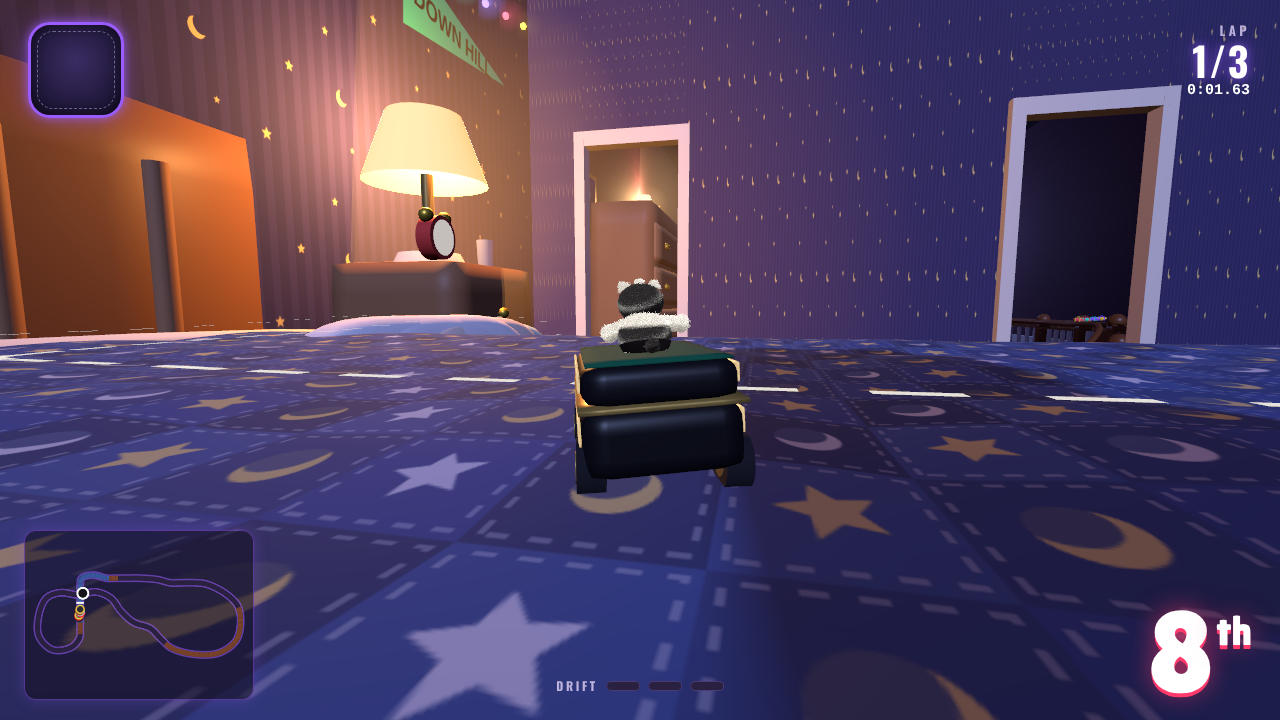
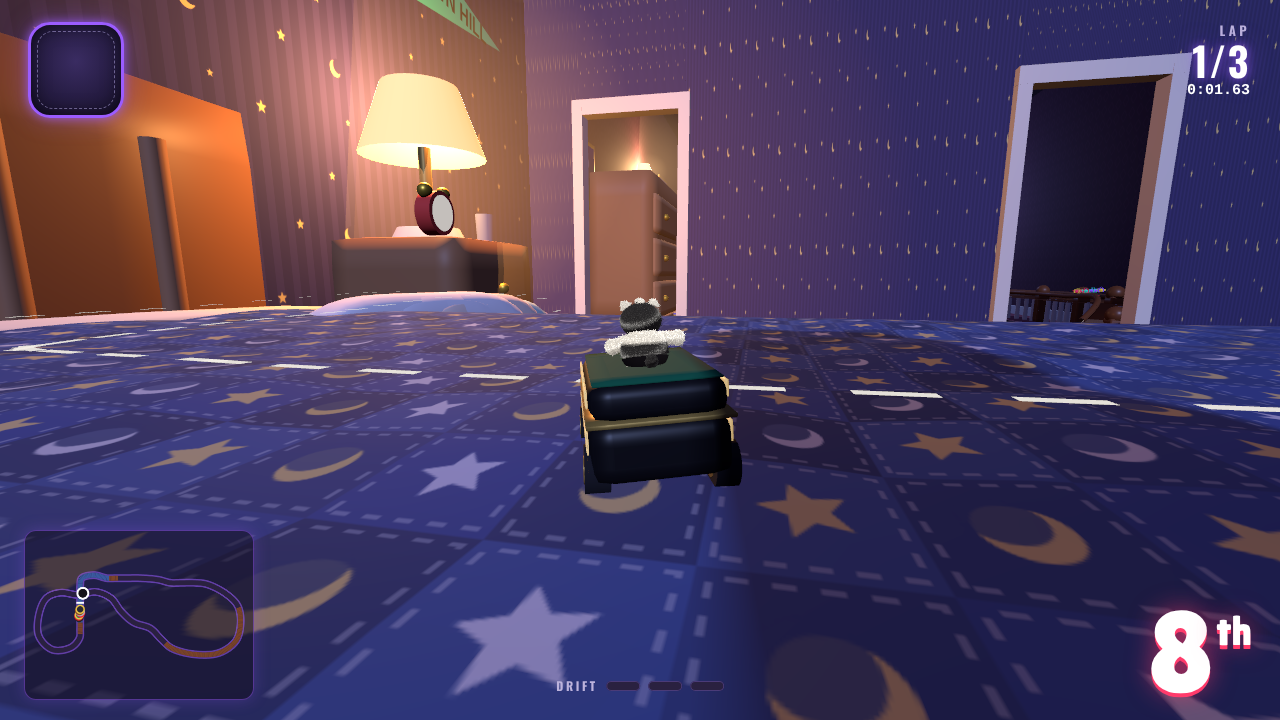
Down Hill: perf — no soft bodies in races (rig-level taunt/trick poses), static mesh merging, tighter LOD; lap ~55 s; check reports per-frame draw stats

diff --git a/down-hill/_source/src/render/racer.js b/down-hill/_source/src/render/racer.js
@@ -63,13 +63,17 @@ export class Driver {
     U.fill.value.copy(FILL).applyQuaternion(camQ);
   }
 
-  update(dt, near) {
+  /* `half`: the soft body steps every other frame (30 Hz, twice the dt) */
+  update(dt, near, half = false) {
     if (this.awake <= 0) return false;
     this.awake -= dt;
     if (this.actT > 0) { this.actT -= dt; if (this.actT <= 0) { this.F.act = 'idle'; this.F.t = 0; } }
     this.F.t++;
     if (!near) return false;
-    this.p.update(Math.min(dt, 1 / 30), this.F, this.F, [0, 0, 0], [0, 0, 3], false);
+    this._acc = (this._acc || 0) + dt;
+    if (half && (this._flip = !this._flip)) return false;
+    this.p.update(Math.min(this._acc, 1 / 20), this.F, this.F, [0, 0, 0], [0, 0, 3], false);
+    this._acc = 0;
     return true;
   }
 
@@ -103,7 +107,10 @@ export class RacerView {
 
   hit() { this.squashV -= 6; this.driver.pose('hitstun', 0.5); }
   land(h) { this.squashV -= 3 + h * 6; }
-  taunt(air) { this.driver.pose(air ? 'jump' : 'win', air ? 0.75 : 1.4); if (this.kart.parts.hydraulics && !air) this.hyd = 1.1; if (air) this.trickT = 0.75; }
+  /* the showy pose: the plush stands up in its seat and spins once round
+     (a rig-level pose every racer gets; the player's own also wakes its
+     soft body for the arms-up taunt) */
+  taunt(air) { this.driver.pose(air ? 'jump' : 'win', air ? 0.75 : 1.4); if (this.kart.parts.hydraulics && !air) this.hyd = 1.1; if (air) this.trickT = 0.75; this.showT = air ? 0.75 : 1.2; this.showLen = this.showT; }
 
   /* place it from the sim's kart K (interpolated pose passed in) */
   update(dt, K, pose, camPos, camQ) {
@@ -142,6 +149,13 @@ export class RacerView {
     d.rotation.z = -(K.steer || 0) * 0.16 * Math.min(1, Math.abs(K.fwd) / 12) + (K.caseT > 0 || K.wobT > 0 ? Math.sin(this.t * 14) * 0.18 : 0);
     d.rotation.x = Math.max(-0.15, Math.min(0.2, (K.boostT > 0 ? -0.12 : 0) + this.pitch * 0.4));
     d.rotation.y = (K.steer || 0) * 0.25 + (K.spinT > 0 ? Math.sin(this.t * 20) * 0.3 : 0);
+    if (this.showT > 0) {
+      this.showT -= dt;
+      const u = 1 - Math.max(0, this.showT) / this.showLen, up = Math.sin(Math.min(1, u * 1.3) * Math.PI);
+      d.position.y += up * 0.55;
+      d.rotation.y += (u < 0.75 ? u / 0.75 : 1) * Math.PI * 2;
+      d.scale.setScalar(P.scale * (1 + up * 0.12));
+    } else d.scale.setScalar(P.scale);
 
     // wheels: roll with the speed; the front ones steer
     this.wheelA += (K.fwd * dt) / 0.45;
@@ -156,9 +170,10 @@ export class RacerView {
 
     // LOD by distance to the camera
     const dist = camPos.distanceTo(g.position);
-    this.setLod(dist > 38 ? 1 : 0);
+    this.dist = dist;
+    this.setLod(dist > 26 ? 1 : 0);
     this.driver.light(camQ);
-    this.driver.update(dt, dist < 45);
+    this.driver.update(dt, dist < 45 && this.mayWake !== false, !!this.racing);
     g.visible = dist < 260;
   }
 

diff --git a/down-hill/_source/src/render/geo.js b/down-hill/_source/src/render/geo.js
@@ -73,3 +73,53 @@ export function srand(seed = 1) {
   let s = seed >>> 0;
   return () => { s = (s + 0x6d2b79f5) >>> 0; let t = Math.imul(s ^ (s >>> 15), s | 1); t ^= t + Math.imul(t ^ (t >>> 7), t | 61); return ((t ^ (t >>> 14)) >>> 0) / 4294967296; };
 }
+
+/* merge the static meshes under `root` that share a material into one mesh
+   each (their world transforms baked in): hundreds of primitives → a few
+   dozen draws. Skips sprites, instanced meshes, anything flagged
+   userData.keep, and geometry whose attributes don't match the first. */
+export function mergeStatic(root, { keep = () => false } = {}) {
+  root.updateMatrixWorld(true);
+  const inv = new THREE.Matrix4().copy(root.matrixWorld).invert();
+  const groups = new Map();
+  root.traverse((o) => {
+    if (!o.isMesh || o.isInstancedMesh || o.isSprite || o.userData.keep || keep(o) || Array.isArray(o.material)) return;
+    let p = o.parent, ok = true;
+    while (p && p !== root) { if (p.userData.keep) ok = false; p = p.parent; }
+    if (!ok) return;
+    const key = o.material.uuid + '|' + (o.userData.cast ? 1 : 0) + (o.userData.noShadow ? 1 : 0);
+    if (!groups.has(key)) groups.set(key, []);
+    groups.get(key).push(o);
+  });
+  let merged = 0;
+  for (const list of groups.values()) {
+    if (list.length < 2) continue;
+    const names = ['position', 'normal', 'uv'];
+    const geos = [];
+    for (const o of list) {
+      let g = o.geometry.index ? o.geometry.toNonIndexed() : o.geometry.clone();
+      if (!g.attributes.normal) g.computeVertexNormals();
+      if (!g.attributes.uv) g.setAttribute('uv', new THREE.Float32BufferAttribute(new Float32Array(g.attributes.position.count * 2), 2));
+      const M = new THREE.Matrix4().multiplyMatrices(inv, o.matrixWorld);
+      g.applyMatrix4(M);
+      geos.push(g);
+    }
+    let n = 0;
+    for (const g of geos) n += g.attributes.position.count;
+    const out = new THREE.BufferGeometry();
+    for (const a of names) {
+      const size = a === 'uv' ? 2 : 3, arr = new Float32Array(n * size);
+      let off = 0;
+      for (const g of geos) { const src = g.attributes[a]; for (let i = 0; i < src.count; i++) for (let c = 0; c < size; c++) arr[off++] = src.getComponent(i, c); }
+      out.setAttribute(a, new THREE.BufferAttribute(arr, size));
+    }
+    out.computeBoundingSphere();
+    const m = new THREE.Mesh(out, list[0].material);
+    Object.assign(m.userData, { cast: list[0].userData.cast, noShadow: list[0].userData.noShadow, merged: list.length });
+    m.castShadow = list[0].castShadow; m.receiveShadow = list[0].receiveShadow;
+    for (const o of list) o.removeFromParent();   // (geometry may be shared by a kept mesh: not disposed)
+    root.add(m);
+    merged += list.length;
+  }
+  return merged;
+}

diff --git a/down-hill/_source/src/render/world.js b/down-hill/_source/src/render/world.js
@@ -13,7 +13,7 @@
    is x −144…126, z −112…112; the landing x 126…414.                    */
 
 import * as THREE from 'three/webgpu';
-import { rbox, pillowGeo, mat, glowMat, mesh, canvasTex, srand } from './geo.js';
+import { rbox, pillowGeo, mat, glowMat, mesh, canvasTex, srand, mergeStatic } from './geo.js';
 import { rightX, rightZ } from '../race/track.js';
 
 const TAU = Math.PI * 2;
@@ -127,6 +127,7 @@ export class World {
     this._trackParts();
     this._guides();
     root.traverse((o) => { if (o.isMesh && !o.userData.noShadow) { o.receiveShadow = true; o.castShadow = !!o.userData.cast; } });
+    this.merged = mergeStatic(root, { keep: (o) => o === this.startLine || this.padMeshes.has(o) });
     this.moon.shadow.needsUpdate = true;
   }
 
@@ -560,7 +561,7 @@ export class World {
       g.strokeStyle = '#fff'; g.lineWidth = 12; g.lineCap = 'round';
       for (const y of [30, 64, 98]) { g.beginPath(); g.moveTo(22, y + 18); g.lineTo(64, y - 14); g.lineTo(106, y + 18); g.stroke(); }
     });
-    this.pads = [];
+    this.pads = []; this.padMeshes = new Set();
     for (let k = 0; k < N; k++) {
       if (!T.pad[k] || T.pad[(k - 1 + N) % N]) continue;
       const m = new THREE.MeshBasicMaterial({ map: padTex, color: '#ffd84a', transparent: true, blending: THREE.AdditiveBlending, depthWrite: false });
@@ -570,7 +571,7 @@ export class World {
       p.userData.noShadow = true;
       const base = mesh(new THREE.PlaneGeometry(10, 10), new THREE.MeshBasicMaterial({ color: '#ff3b6b', transparent: true, opacity: 0.35, blending: THREE.AdditiveBlending, depthWrite: false }), T.x[k], T.y[k] + 0.25, T.z[k], root);
       base.rotation.copy(p.rotation); base.userData.noShadow = true;
-      this.pads.push(m);
+      this.pads.push(m); this.padMeshes.add(p); this.padMeshes.add(base);
     }
     void neon; void neon2;
   }

diff --git a/down-hill/_source/src/main.js b/down-hill/_source/src/main.js
@@ -499,7 +499,7 @@ class App {
     // the top three on a podium of books by the rug, in their winning poses
     const spots = [[-84, 6, 52], [-92, 4, 50], [-76, 3, 50]];
     this.podium = R.finishOrder.slice(0, 3).map((i, p) => ({ i, v: this.rviews[i], spot: spots[p] }));
-    for (const v of this.rviews) v.group.visible = false;
+    for (const v of this.rviews) { v.group.visible = false; v.racing = false; v.mayWake = true; }
     this.podium.forEach((P, p) => { P.v.group.visible = true; P.v.driver.pose(p === 0 ? 'win' : 'idle', 60); });
     if (!this.podiumMeshes) {
       this.podiumMeshes = new THREE.Group();
@@ -553,6 +553,10 @@ class App {
       const alpha = this.paused ? 1 : Math.min(1, this.acc / DT);
       const R = this.race;
       this._camera(dt, alpha);
+      // the soft-body budget: none in a race. Every plush is frozen and the
+      // trick / taunt / hit poses are the rig's (render/racer.js); the soft
+      // bodies wake only on the podium and the select turntable
+      this.rviews.forEach((v) => { v.mayWake = false; v.racing = true; });
       R.karts.forEach((K, i) => {
         const v = this.rviews[i], pose = this._pose(K, this.prev[i], alpha);
         v.update(this.paused ? 0 : dt, K, pose, this.camera.position, this.camera.quaternion);

diff --git a/down-hill/_source/src/render/karts.js b/down-hill/_source/src/render/karts.js
@@ -8,7 +8,7 @@
    exhaust, detail (hidden at the far LOD), parts: {…per-kart moving bits} } */
 
 import * as THREE from 'three/webgpu';
-import { rbox, mat, glowMat, mesh, canvasTex } from './geo.js';
+import { rbox, mat, glowMat, mesh, canvasTex, mergeStatic } from './geo.js';
 
 const TAU = Math.PI * 2;
 
@@ -394,6 +394,11 @@ function sailTex() {
 const BUILD = { zamboni, bus, roadster, lowrider, washtub, ballmachine, cart };
 export function buildKart(kind, alt = false) {
   const K = BUILD[kind](alt);
-  K.group.traverse((o) => { if (o.isMesh) { o.castShadow = false; o.receiveShadow = false; } });
+  // the body's fixed parts merge by material (the wheels, the seat, the
+  // moving bits and the far-LOD details stay their own)
+  const moving = new Set([K.seat, ...K.detail, ...Object.values(K.parts).filter((p) => p && p.isObject3D), ...(K.parts.paddles || []).map((p) => p.g)]);
+  for (const o of moving) o.userData.keep = true;
+  mergeStatic(K.body);
+  K.group.traverse((o) => { if (o.isMesh) { o.castShadow = false; o.receiveShadow = true; } });
   return K;
 }

diff --git a/down-hill/_source/src/race/track.js b/down-hill/_source/src/race/track.js
@@ -88,7 +88,7 @@ export const LANDING = {
   boxes: [0.1, 0.33, 0.52, 0.68, 0.86],
 };
 
-/* the room was laid out in a compact sketch; the race runs it 1.8× wider
+/* the room was laid out in a compact sketch; the race runs it 1.9× wider
    and 1.25× taller (a lap of ~55 s at racing speed) */
 function scaled(def, sxz, sy) {
   const P = (p) => ({ ...p, x: p.x * sxz, z: p.z * sxz });
@@ -101,7 +101,7 @@ function scaled(def, sxz, sy) {
     posts: def.posts.map(P),
   };
 }
-export const TRACKS = { landing: scaled(LANDING, 1.8, 1.25) };
+export const TRACKS = { landing: scaled(LANDING, 1.9, 1.25) };
 
 /* ── sampling ─────────────────────────────────────────────────────────── */
 function cr(p0, p1, p2, p3, t) {
